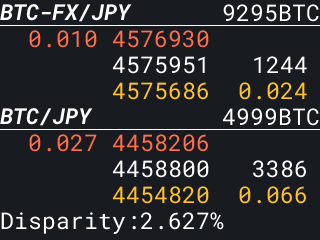
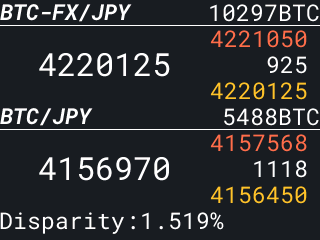
README.md更新

diff --git a/README.md b/README.md
@@ -1,7 +1,9 @@
 # m5_display_ticker_bitflyer
 M5Stack Basic/Core2 にBitflyerティッカーを表示する
 
-![スクリーンショット](screenshot.png "スクリーンショット")
+![スクリーンショット](screenshot1.png "スクリーンショット1")
+
+![スクリーンショット](screenshot2.png "スクリーンショット2")
 
 ## 使い方
 
